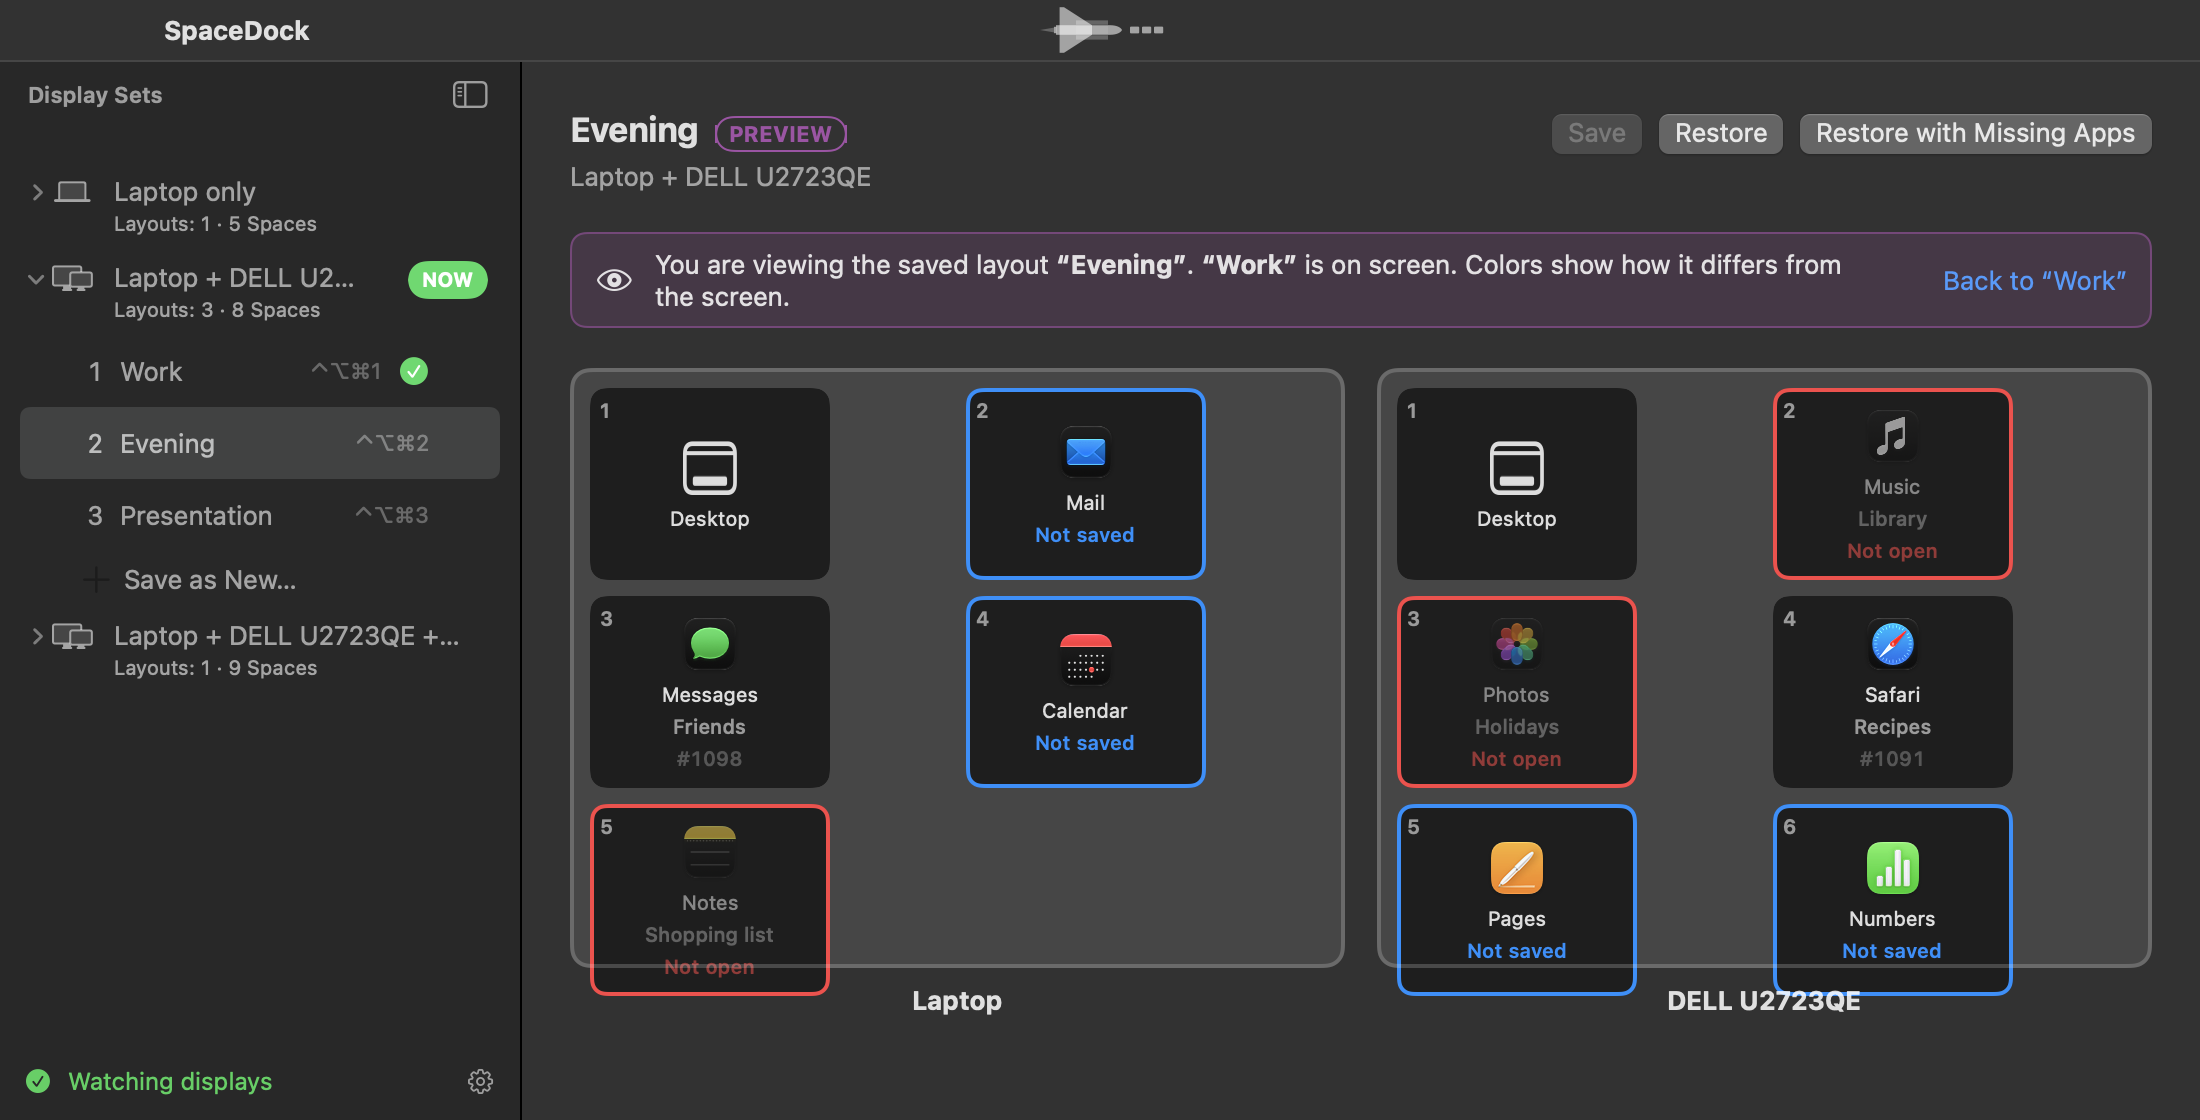
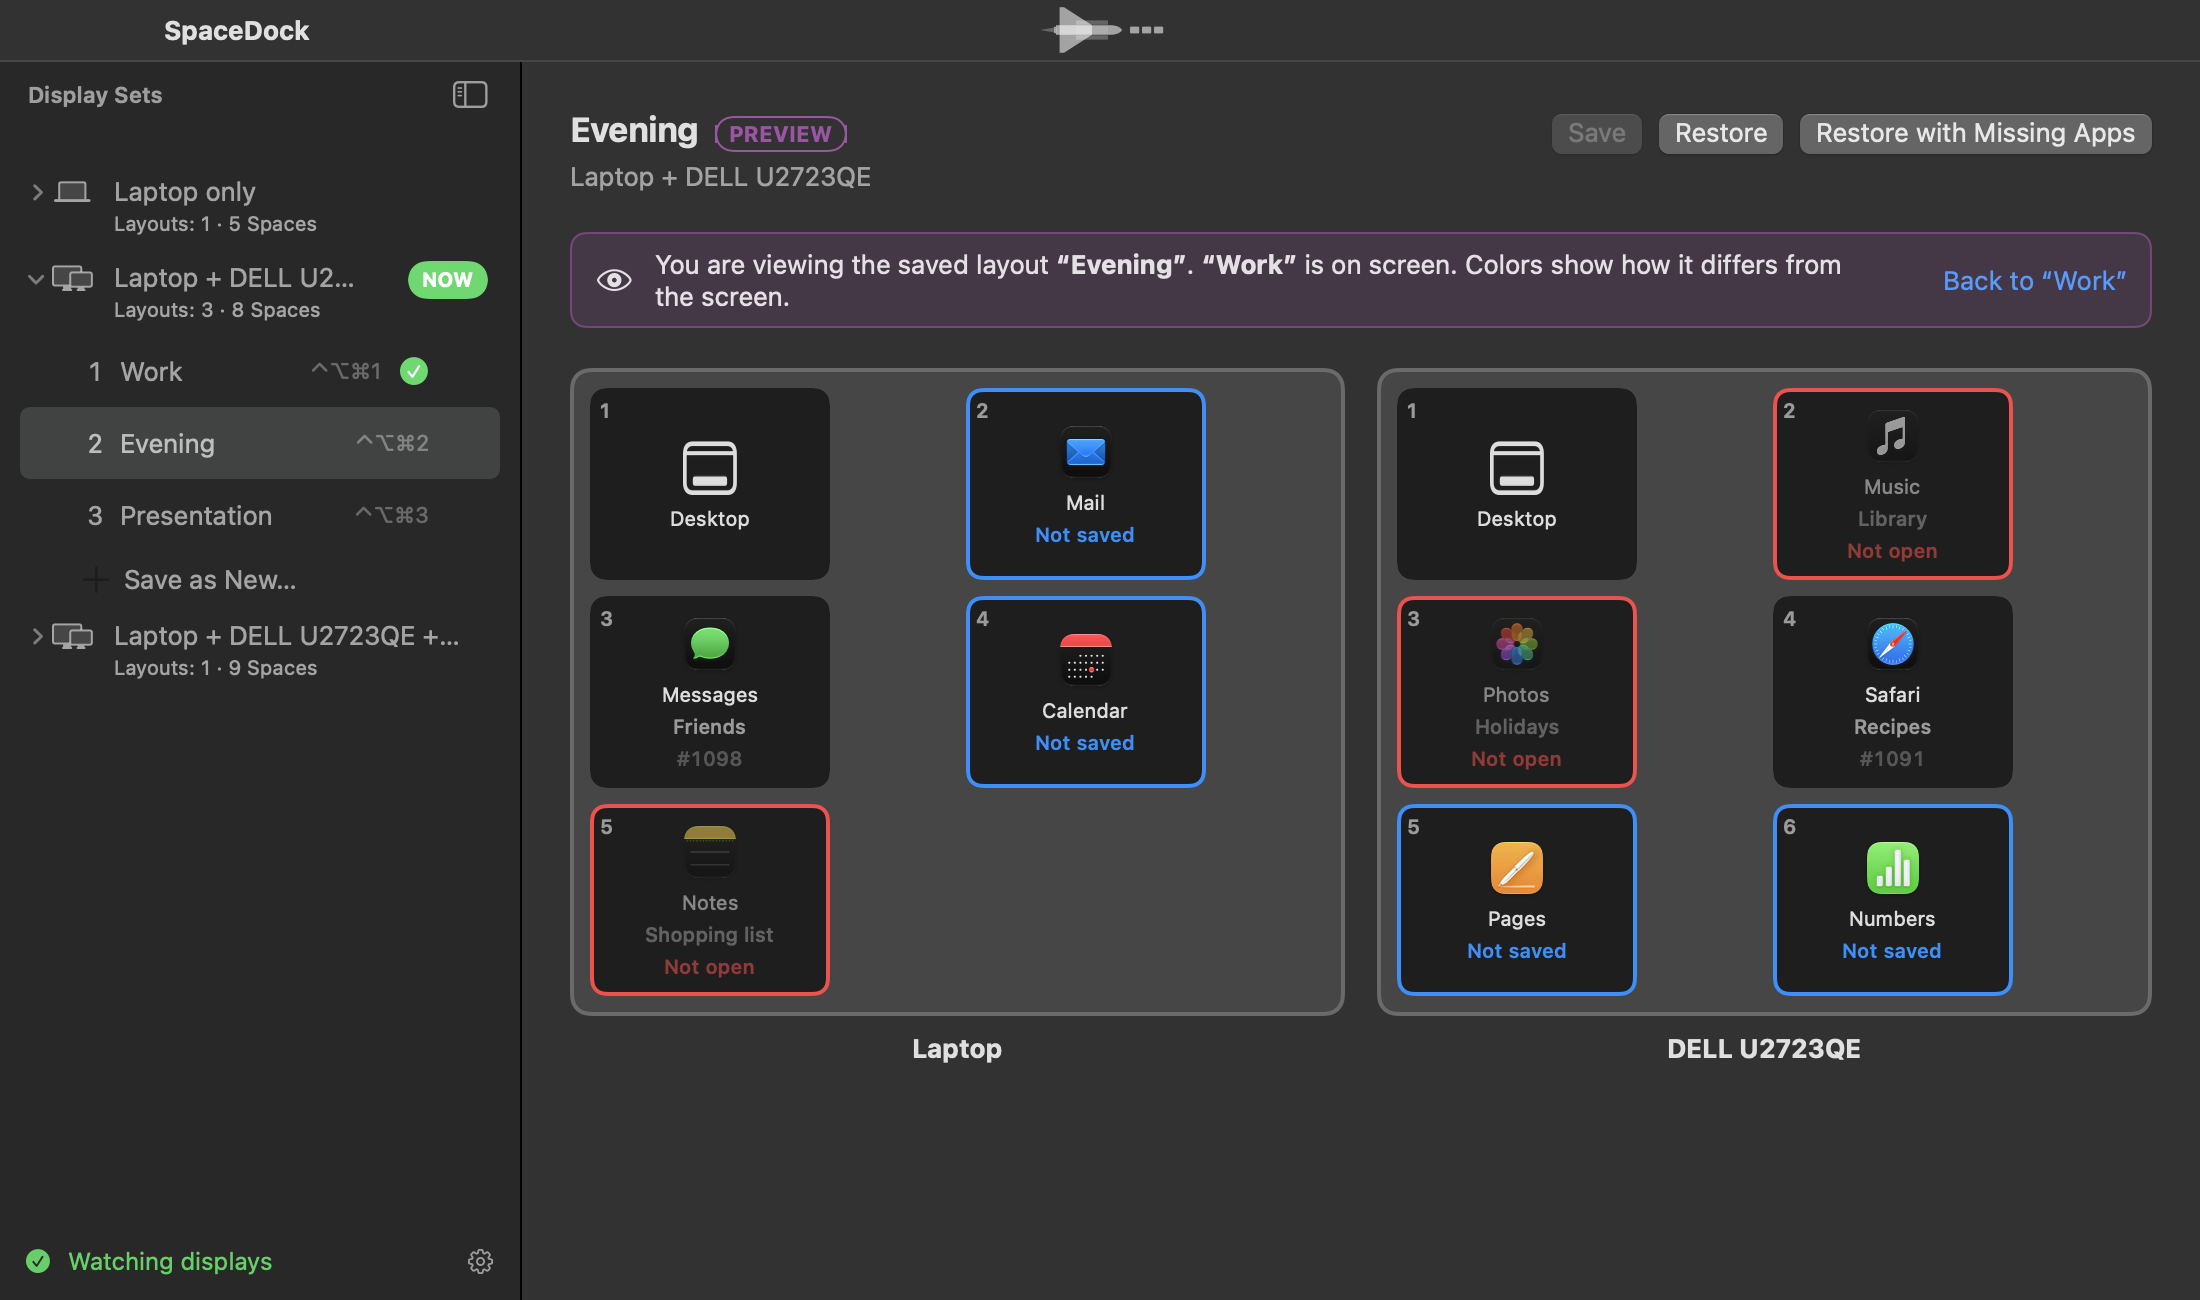
Window: the layout view scrolls instead of squeezing the monitors, so tiles stay inside their frame; README previews re-rendered

diff --git a/Sources/App.swift b/Sources/App.swift
@@ -1020,7 +1020,8 @@ struct ProfileView: View {
     var body: some View {
         let viewed = model.viewed(key)
         let preview = viewed != nil && model.isPreview(key)
-        VStack(alignment: .leading, spacing: 20) {
+        // Scrolls in a short window instead of squeezing the monitors (tiles spilled out of them).
+        ScrollView { VStack(alignment: .leading, spacing: 20) {
             HStack(alignment: .firstTextBaseline) {
                 VStack(alignment: .leading, spacing: 4) {
                     HStack(alignment: .firstTextBaseline, spacing: 8) {
@@ -1071,9 +1072,9 @@ struct ProfileView: View {
                 Text("Ten zestaw nie ma jeszcze żadnego układu. Ułóż przestrzenie i kliknij „Zapisz”.")
                     .foregroundStyle(.secondary)
             }
-            Spacer()
         }
         .padding(24)
+        .frame(maxWidth: .infinity, alignment: .leading) }
     }
 
     private var onScreenCapsule: some View {
